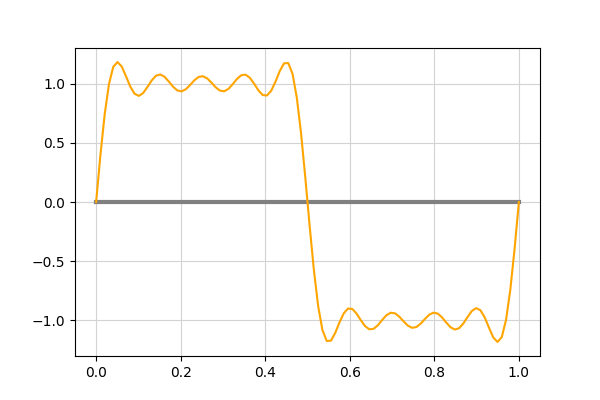
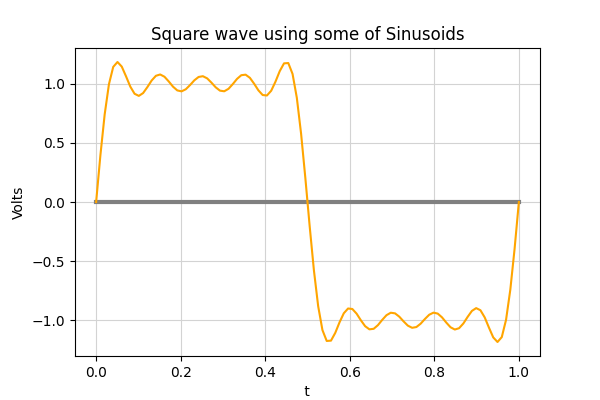
Square wave using some of sinusoids

Changed region(s): [[0.24, 0.06, 0.78, 0.12], [0.0, 0.48, 0.06, 0.54]]

diff --git a/SquareWave.py b/SquareWave.py
@@ -5,7 +5,10 @@ def Sn():
     ""
     global n  
     plt.figure(figsize=(6,4))
+    plt.title("Square wave using some of Sinusoids")
     plt.plot([0,1],[0,0], color="grey",linewidth=3)
+    plt.ylabel("Volts")
+    plt.xlabel(" t ")
 
     t = np.linspace(0,1,100)
     y = np.zeros(100)
